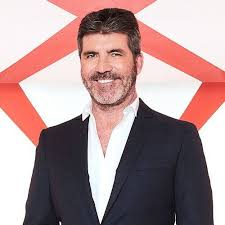
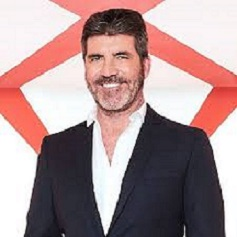
fixed picture

diff --git a/financial.html b/financial.html
@@ -82,7 +82,7 @@
     </div>
   <div class= "flex-item">
    
[1 lines of base64/hex data omitted]
+    <img  src= "images/simonCowell.jpg" alt "Simon Cowell"></img>
             <p> In the summer of 2018 celebrity Simon Cowell was interrogated
                 and produced photos that had been sent to him by the suspect. These photos
                 showed the celebrity leaving the home of a well known dancer who is married.
